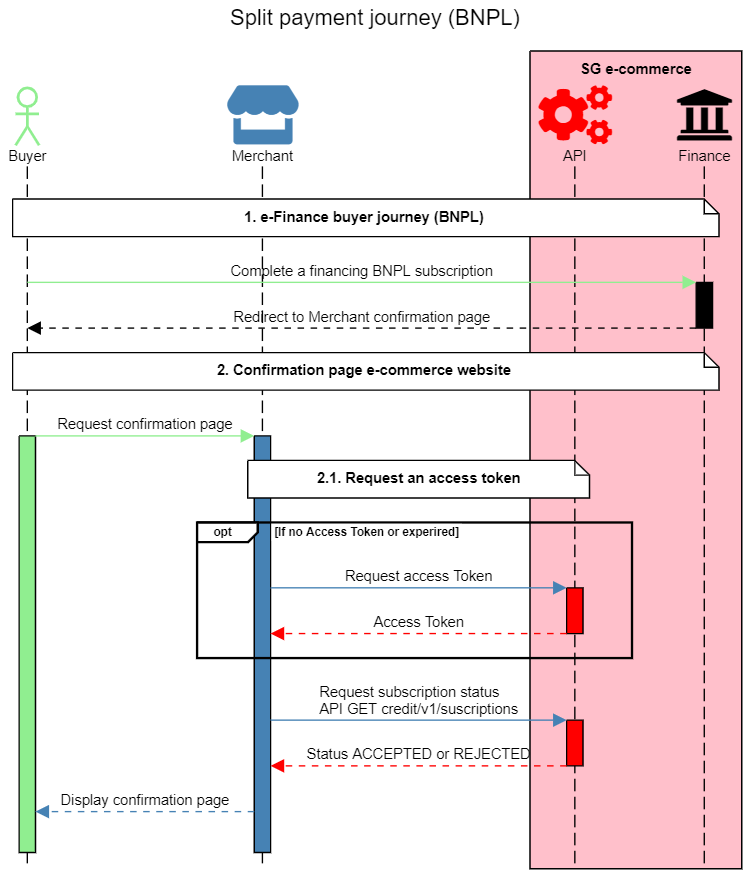
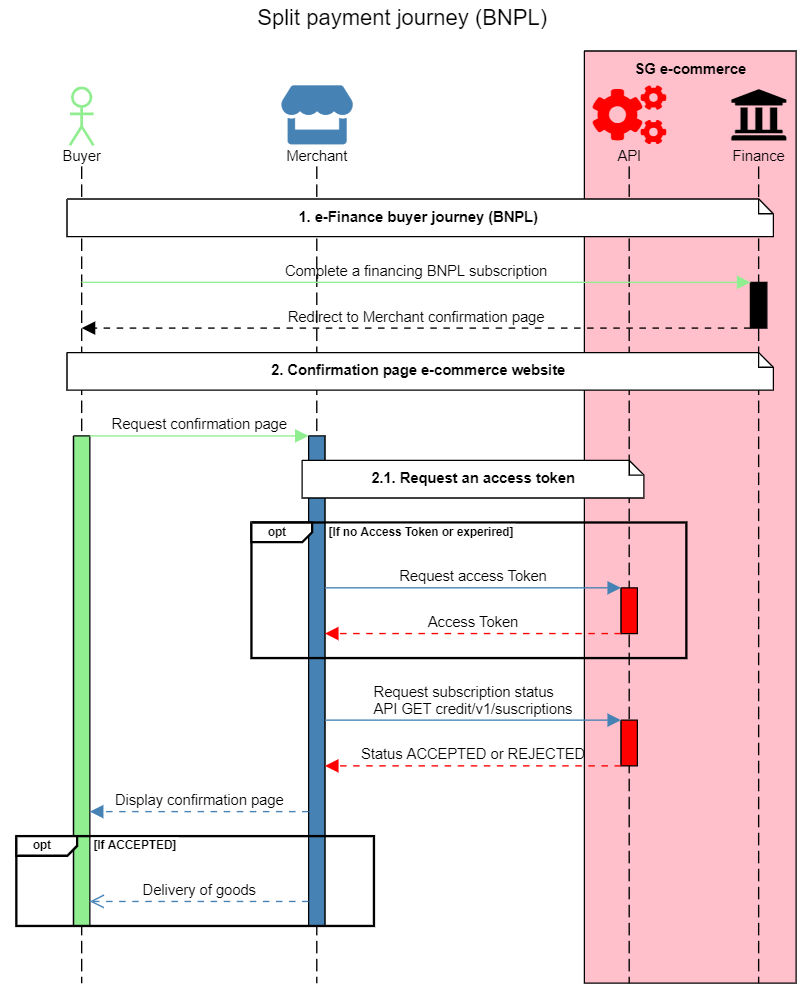
GITBOOK-50: No subject

diff --git a/use-cases/credit/split-payment-journey-bnpl.md b/use-cases/credit/split-payment-journey-bnpl.md
@@ -13,10 +13,11 @@ As of today, Split payment e-financing solution is proposed by FRANFINANCE for F
 {% endhint %}
 
 1. e-Financing buyer journey (BNPL)\
-   This step is executed by the producer (FRANFINANCE). This journey is a 2 screens payment experience: confirm identity of the buyer, proceed payment card (Payment is under responsibility of PSP partner).\
+   This step is executed by the producer (FRANFINANCE). This journey is a 2 screens payment experience: a-confirm identity of the buyer, b-proceed payment card (Payment is under responsibility of a PSP partner).\
    _<mark style="background-color:orange;">Mettre ici quelques images du parcours FF</mark>_\
-   At the end of the split payment journey, the buyer will be redirected on the e-merchant confirmation e-website page.&#x20;
-2. Confirmation page on e-commerce website
+   At the end of the split payment journey, the buyer will be redirected on the e-merchant confirmation e-website page.
+2. Confirmation page on e-commerce website\
+   After the redirection, the merchant will have to access the subscriptions API in order to get the resulting status. The status could be either ACCEPTED or REJECTED. Once received the confirmation page will be displayed to the buyer. If ACCEPTED the merchant can deliver the goods to the buyer.
 
 <figure><img src="../../.gitbook/assets/Split payment journey .png" alt=""><figcaption></figcaption></figure>
 
